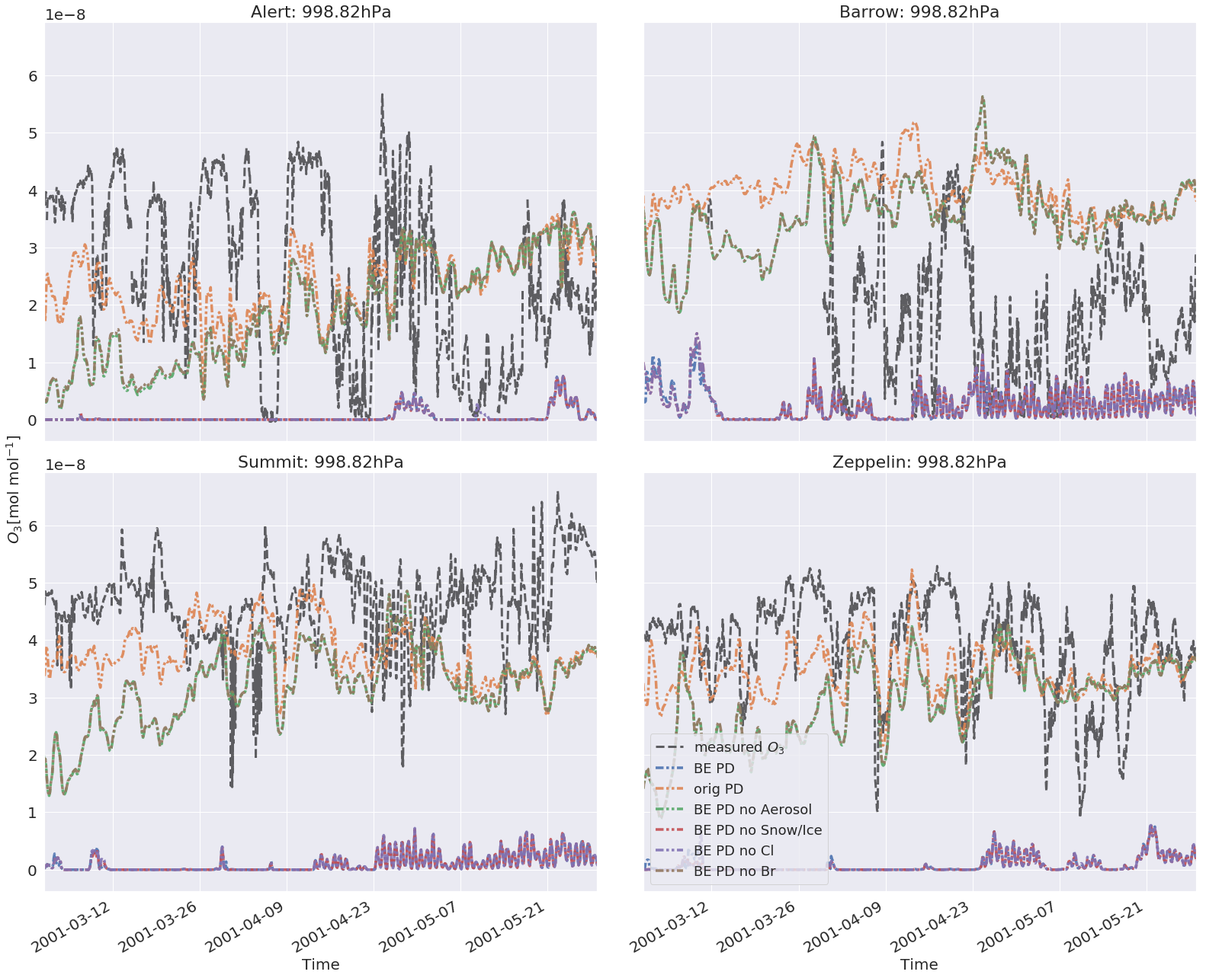
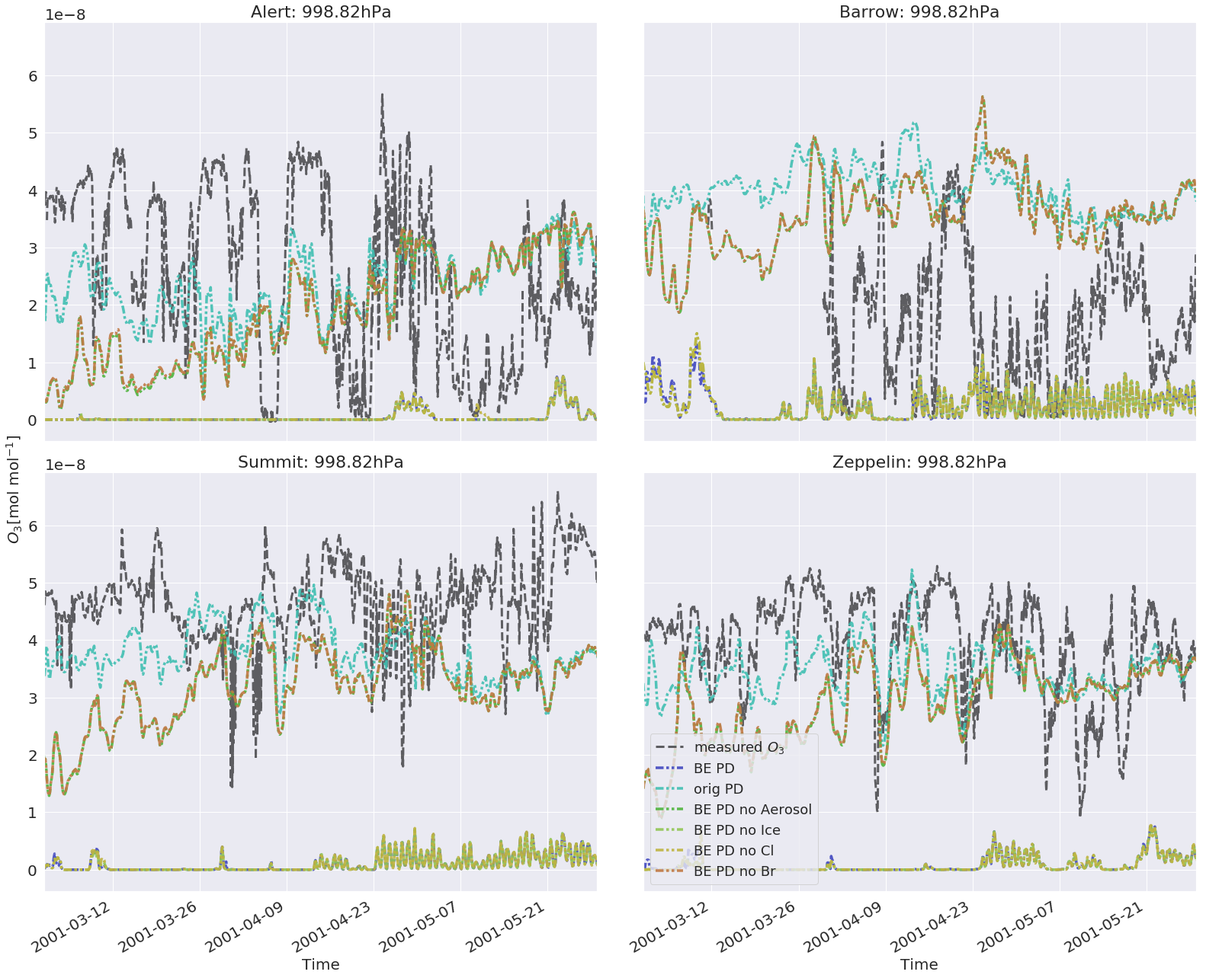
15/04/20

diff --git a/Chapter2_Theory/Theory.tex b/Chapter2_Theory/Theory.tex
@@ -82,11 +82,31 @@ Reaction \ref{rqn:ozone} is the most significant source of ozone in the atmosphe
     \label{rqn:OH}
 \end{reaction}
 
-This is the only gas-phase reaction in the troposphere that is able to break the \chem{H-O} bond in $\chem{H_2O}$ (\cite{SeinfeldSpyros}). Tropospheric ozone is thus increasing the oxidizing capacity of the troposphere as it is acting as a precursor for \chem{OH}. The hydroxyl radicals interplay in a chain of reaction that results in the removal of atmospheric \chem{CO} and $\chem{CH_4}$ (\cite{Levy1971}). 
+This is the only gas-phase reaction in the troposphere that is able to break the \chem{H-O} bond in $\chem{H_2O}$ (\cite{SeinfeldSpyros}). Tropospheric ozone is thus increasing the oxidizing capacity of the troposphere as it is acting as a precursor for \chem{OH}. In remote regions, ozone loss by $\chem{HO_x}$ can be an important mechanism when \chem{NO}-concentrations are low(\cite{Jacob1999}): 
 
-\medskip
 
-When \chem{NO} and $\chem{NO_2}$ is present in sunlight, ozone may be produced photochemically (i.e. the initiating step is the absorption of a photon (\cite{Cadle1970})) in by the photolysis of $\chem{NO_2}$ (Reaction \ref{rqn:no2hv} below) followed by Reaction \ref{rqn:ozone} (\cite{Hesstvedt1978}): 
+\begin{reaction}
+    \chem{OH} + \chem{O_3} \rightarrow \chem{HO_2} + \chem{O_2}
+    \label{rqn:oh_o3}
+\end{reaction}
+\begin{reaction}
+    \chem{HO_2} + \chem{O_3} \rightarrow \chem{OH} + 2\chem{O_3}
+    \label{rqn:ho2_o3}
+\end{reaction}
+
+The hydroxyl radicals interplay in a chain of reaction that results in the removal of atmospheric \chem{CO} and $\chem{CH_4}$ (\cite{Levy1971}). Oxidation of a hydrocarbon, denoted generically as \chem{RH}, by \chem{OH} produces an inorganic peroxy radical, $\chem{RO_2}$ (\cite{Jacob1999}):
+
+\begin{reaction}
+    \chem{RH} + \chem{OH} \xrightarrow{\chem{O_2}} \chem{RO_2} + \chem{H_2O}
+\end{reaction}
+
+When \chem{NO} and $\chem{RO_2}$ are present (in polluted areas), these react to produce $\chem{NO_2}$ and organic oxy radicals \chem{RO} (\cite{Jacob1999}): 
+
+\begin{equation}
+    \chem{RO_2} + \chem{NO} \rightarrow \chem{RO} + \chem{NO_2}
+\end{equation}
+
+Ozone may then be produced photochemically (i.e. the initiating step is the absorption of a photon (\cite{Cadle1970})) by the photolysis of $\chem{NO_2}$ (Reaction \ref{rqn:no2hv} below) followed by Reaction \ref{rqn:ozone} (\cite{Hesstvedt1978}): 
 
 
 \begin{reaction}
@@ -94,34 +114,21 @@ When \chem{NO} and $\chem{NO_2}$ is present in sunlight, ozone may be produced p
     \label{rqn:no2hv}
 \end{reaction}
 
-The \chem{NO}-molecule quickly reacts with ozone to regenerate $\chem{NO_2}$:
-
-
-\begin{reaction}
-    \chem{O_3} + \chem{NO} \rightarrow \chem{O_2} + \chem{NO_2}
-    \label{rqn:o3no}
-\end{reaction}
-
-Tropospheric ozone production is sustained by emissions of $\chem{NO_x}$ and hydrocarbons \cite{Jacob1999}. 
-
-
-
-\subsection{Influence of Nitrogen}\label{sec:influence_of_nitrogen}
-
-
-Generally, tropospheric ozone is a result of two main precursors, $\chem{NO_x} = \chem{NO} + \chem{NO_2}$
-
-In polluted regions, there is an important balance between regions with too much $\chem{NO_x}$, which generally acts as a precursor of ozone, and areas where the $\chem{NO_x}$ concentration is low enough to sustain the production of ozone depleting reactive halogens. The high concentrations of $\chem{HNO_3}$ and $\chem{H_2SO_4}$ can in theory provide the reactive surfaces for acidity dependent autocatalytic release of reactive halogens, but the efficiency of this mechanism is degraded in the case of $\chem{NO_x}$ and hydrocarbon concentrations (\cite{Simpson2015}). High concentrations of $\chem{NO_x}$ suppresses the formation of $\chem{HO_x}$, which is in turn a key component of the halogen explosion sequence. Hydrocarbons serve as sinks for reactive halogens due to their willingness to react with these rather than with ozone, and thus terminates the halogen explosion sequence (\cite{Simpson2015}). Incidents in which halogens do get activated in polluted regions, production of nitryl halides, $\chem{XNO_2}$, is considered to be a major activation process. Observations have shown that this is mostly relevant for chlorine as the reactivity and/or solubility of $\chem{BrNO_2}$ and $\chem{INO_2}$ are likely much greater than for $\chem{ClNO_2}$ \cite{Simpson2015}. 
-
-\medskip
+Tropospheric ozone production is thus sustained by emissions of $\chem{NO_x}$ and hydrocarbons \cite{Jacob1999}. 
 
 
 
 
 
-\cite{SeinfeldSpyros} SKRIV OM HIGH NOX/LOW NOX ENVIRONMENTS
+%\subsection{Influence of Nitrogen}\label{sec:influence_of_nitrogen}
 
-In the troposphere, ozone is a secondary pollutant produced in areas with high anthropogenic emissions of $\chem{NO_x}$. 
+
+%\input{Chapter2_Theory/images/highNOxlowNOx}
+
+%In polluted regions, there is an important balance between regions with too much $\chem{NO_x}$, which generally acts as a precursor of ozone, and areas where the $\chem{NO_x}$ concentration is low enough to sustain the production of ozone depleting reactive halogens. The high concentrations of $\chem{HNO_3}$ and $\chem{H_2SO_4}$ can in theory provide the reactive surfaces for acidity dependent autocatalytic release of reactive halogens, but the efficiency of this mechanism is degraded in the case of $\chem{NO_x}$ and hydrocarbon concentrations (\cite{Simpson2015}). High concentrations of $\chem{NO_x}$ suppresses the formation of $\chem{HO_x}$, which is in turn a key component of the halogen explosion sequence. Hydrocarbons serve as sinks for reactive halogens due to their willingness to react with these rather than with ozone, and thus terminates the halogen explosion sequence (\cite{Simpson2015}). Incidents in which halogens do get activated in polluted regions, production of nitryl halides, $\chem{XNO_2}$, is considered to be a major activation process. Observations have shown that this is mostly relevant for chlorine as the reactivity and/or solubility of $\chem{BrNO_2}$ and $\chem{INO_2}$ are likely much greater than for $\chem{ClNO_2}$ \cite{Simpson2015}. 
+
+
+
 
 \section{Halogen Chemistry}\label{sec:halogen_chemistry}
 
@@ -178,7 +185,7 @@ The discovery of ODEs in the troposphere due to anomalously high concentrations 
 
 \medskip
 
-During polar spring, the amount of ozone in the polar boundary layer may decrease from tens of ppb to less than 1 ppb due to catalytic destruction by reactive halogen species (\cite{CAO}). the reaction scheme assuming bromine is the depleting agent is to a large extent summarized in Figure \ref{fig:het_react}. 
+During polar spring, the amount of ozone in the polar boundary layer may decrease from tens of ppb to less than 1 ppb due to catalytic destruction by reactive halogen species (\cite{CAO}). The reaction scheme assuming bromine is the depleting agent is to a large extent summarized in Figure \ref{fig:het_react}. 
 
 \medskip
 
@@ -212,7 +219,7 @@ The halogen oxides may proceed to deplete ozone. They partition quickly between 
     \chem{XO} + \chem{XO} \rightarrow \chem{OXO} + \chem{X} \label{R:5} 
 \end{reaction}
 
-The \chem{XO}-self reaction in Reactions \ref{R:3} to \ref{R:5} are often considered the rate limiting step for $\chem{O_3}$ destruction (\cite{JPL}). The partitioning between \chem{XO} and \chem{X} is rapid (\cite{Schmidt} reported a $[\chem{XO}]/[\chem{X}]$ ratio globally close to 1). In addition to the partitioning in Reactions \ref{R:3} to \ref{R:5}, \chem{XO} may be oxidized or photolysed:  
+The \chem{XO}-self reaction in Reactions \ref{R:3}-\ref{R:5} are often considered the rate limiting step for $\chem{O_3}$ destruction (\cite{Hausmann1994}). The partitioning between \chem{XO} and \chem{X} is rapid, although in the polar regions, the $[\chem{XO}]/[\chem{X}]$ is generally larger than one (\cite{Schmidt}). In addition to the partitioning in Reactions \ref{R:3}-\ref{R:5}, \chem{XO} may be oxidized or photolysed:  
 
 \begin{reaction}
     \chem{OH} + \chem{XO} \rightarrow \chem{X} + \chem{HO_2}
@@ -226,9 +233,10 @@ The \chem{XO}-self reaction in Reactions \ref{R:3} to \ref{R:5} are often consid
 
 The halogen oxides quickly photodissociate (on the order of seconds and minutes time scale) and Reactions \ref{R:2} and \ref{R:20} creates a null cycle that does not destroy or produce ozone. This has an effect on the partitioning of \chem{X} and \chem{XO} species. The oxides dominate the radical form, which extends the lifetime of the $\chem{XO_x} = \chem{X} + \chem{XO}$-family as the oxides are generally less reactive than the atomic form (\cite{Simpson2015}). 
 
+
 \medskip
 
-Termination reactions that renders the \chem{XO}-radical into the reservoir species \chem{HBr}, \chem{HOBr} and $\chem{BrONO_2}$ may proceed as follows: 
+Termination reactions that renders the \chem{XO} and \chem{X}-radicals into the reservoir species \chem{HBr} and \chem{HOBr} may proceed as follows: 
 
 \begin{reaction}
     \chem{XO} + \chem{HO_2} \rightarrow \chem{HOX} + \chem{O_2}
@@ -246,25 +254,9 @@ Termination reactions that renders the \chem{XO}-radical into the reservoir spec
     \label{R:16}
 \end{reaction}
 
-\begin{reaction}
-    \chem{BrO} + \chem{NO_2} + M \rightarrow \chem{BrONO_2} + M
-    \label{R:9}
-\end{reaction}
-
-Depending on their relative bond strength, the reservoir species may be reactivated by: 
 
 
-\begin{reaction}
-    \chem{BrO} + \chem{NO} \rightarrow \chem{NO_2} + \chem{Br}
-    \label{R:14}
-\end{reaction}
-
-
-
-\begin{reaction}
-    \chem{BrONO_2} + \chem{H_2O} \xrightarrow{aerosol} \chem{HOBr} + \chem{HNO_3}
-    \label{R:13}
-\end{reaction}
+The efficiency of ozone destruction is not only dependent on the availability of reactive bromine, but also the efficiency of reconverting reservoir species (\chem{HBr} and \chem{HOBr}) back into reactive \chem{Br}). \chem{HOBr} photolyses readily to form \chem{Br} and \chem{OH} (\cite{Hausmann1994}):
 
 \begin{reaction}
     \chem{HOBr} + hv \rightarrow \chem{Br} + \chem{OH}
@@ -295,6 +287,10 @@ In which the multiphase Reactions \ref{R:7} and \ref{R:8} outlines the release o
 
 \medskip
 
+The ODEs terminate when there's no ozone left to deplete, as that prohibits Reaction \ref{rqn:oh_o3}-\ref{rqn:ho2_o3} such that there will be far less $\chem{HO_x}$-species. This affects Reaction \ref{R:6}, $\chem{BrO} + \chem{HO_2} \rightarrow \chem{HOBr} + \chem{O_2}$, which again terminates the autocatalytic heterogeneous reactions that produces reactive halogen species. 
+
+\subsubsection{Reactive Surfaces}
+
 The reactive surface maybe supplied by different media, and this is an object of many research articles (e.g.  \cite{Simpson2018}, \cite{Rankin}). Whichever is more significant, there is most likely a cooperation of the reactive surfaces that accelerates the bromine explosion events. The reactive surfaces are (generally): 
 
 \begin{itemize}
@@ -302,6 +298,30 @@ The reactive surface maybe supplied by different media, and this is an object of
     \item Snow surfaces, with low pH
     \item Aerosol surfaces, with low pH
 \end{itemize}
+
+\subsubsection{ODEs and Halogen-Driven $\chem{NO_x}$-Loss}
+
+Halogen driven tropospheric ozone loss globally was found by \cite{Schmidt} to be due to a combination of depletion by catalytic BE-events and a decrease in $\chem{NO_x}$-driven ozone production. This is due to halogen-driven $\chem{NO_x}$-loss which is largest in low $\chem{NO_x}$-areas, such as the polar regions. The halogen-driven $\chem{NO_x}$-loss occurs due to hydrolysis of the halogen nitrates (\cite{Schmidt}):
+
+\begin{reaction}
+    \chem{BrO} + \chem{NO} \rightarrow \chem{NO_2} + \chem{Br}
+    \label{R:14}
+\end{reaction}
+
+
+\begin{reaction}
+    \chem{BrO} + \chem{NO_2} + M \rightarrow \chem{BrONO_2} + M
+    \label{R:9}
+\end{reaction}
+
+
+\begin{reaction}
+    \chem{BrONO_2} + \chem{H_2O} \xrightarrow{aerosol} \chem{HOBr} + \chem{HNO_3}
+    \label{R:13}
+\end{reaction}
+
+
+
 
 \subsubsection{Chlorine Reservoir Species}
 

diff --git a/Chapter1_Intro/Introduction.tex b/Chapter1_Intro/Introduction.tex
@@ -3,7 +3,7 @@ Anthropogenic emissions of nitrogen oxides ($\chem{NO_x}$), carbon monoxide (\ch
 
 \medskip
 
-Ozone is a powerful greenhouse gas in terms of \acrfull{rf}, both in the stratosphere and troposphere. The estimated \acrshort{rf} due to tropospheric ozone was reported by The \acrfull{ipcc} as 0.40$\pm$0.20Wm$^{-2}$ (\cite{IPCCchapter8}). Ozone is, however, distinguished from other greenhouse gases due to it's short lifetime and highly heterogeneous distribution. The short lifetime of ozone classifies it as a 'near-term climate forcer', i.e. a species whos impact on climate occurs within the first decade after it's emission (\cite{IPCCchapter8}). In the free troposphere, ozone may have a lifetime of weeks to months. Consequently, ozone and its precursors may be transported from polluted mid-latitude areas to the Arctic directly (\cite{AMAP2015}). In order to better understand the ozone-induced \acrshort{rf} in the Earth-atmosphere system, better modelling of the tropospheric ozone content and processes is needed (e.g. \cite{Bowman2013}, \cite{Parella}). 
+Ozone is a powerful greenhouse gas in terms of \acrfull{rf}, both in the stratosphere and troposphere. In 2013, The \acrfull{ipcc} estimated the \acrshort{rf} due to tropospheric ozone to be 0.40$\pm$0.20Wm$^{-2}$ (\cite{IPCCchapter8}). Ozone is, however, distinguished from other greenhouse gases due to it's short lifetime and highly heterogeneous distribution. The short lifetime of ozone classifies it as a 'near-term climate forcer', i.e. a species whos impact on climate occurs within the first decade after it's emission (\cite{IPCCchapter8}). In the free troposphere, ozone may have a lifetime of weeks to months. Consequently, ozone and its precursors may be transported from polluted mid-latitude areas to the Arctic directly (\cite{AMAP2015}). In order to better understand the ozone-induced \acrshort{rf} in the Earth-atmosphere system, better modelling of the tropospheric ozone content and processes is needed (e.g. \cite{Bowman2013}, \cite{Parella}). 
 
 \medskip
 
@@ -27,11 +27,12 @@ In particular, bromine and chlorine interplay in so called halogen explosions th
 
 \medskip
 
-The motivation of this thesis is to assess what impact the depletion of ozone in a shallow \acrshort{bl} at high latitudes has on the radiative balance in the Arctic. Changes in local troposhperic ozone affects local radiation fluxes in the Arctic, while changes in both local and distant ozone pollution may modulate the transport of heat to polar regions (\cite{Shindell2007}). The hypothesis is that there are similarities between the effect of \acrfull{bc} residing in the shallow Arctic \acrshort{bl} causes as strong surface warming due to an enhancement of the absorption of radiation (\cite{Flanner2013}) and photolysis and destruction of ozone near the surface. The radiative effect of BC is highly dependent on altitude, and BE situated at the lowermost part of the Arctic \acrshort{bl}, has a warming effect, which may accelerate snow/ice melting (\cite{Flanner2013}, \cite{AMAP2015}). By obtaining an implementation of \acrshort{ode} in the Oslo CTM3, and investigate the \acrshort{rf} imposed by a changed concentration of ozone in the Arctic \acrshort{bl}, we can get an idea of how similar the BC and ozone effects are. 
+The motivation of this thesis is to assess what impact the depletion of ozone in a shallow \acrshort{bl} at high latitudes has on the radiative balance in the Arctic. Changes in local troposhperic ozone affects local radiation fluxes in the Arctic, while changes in both local and distant ozone pollution may modulate the transport of heat to polar regions (\cite{Shindell2007}). Comparably, \acrfull{bc} residing in the shallow Arctic \acrshort{bl} causes strong surface warming due to enhancement of the absorption of radiation (\cite{Flanner2013}). The hypothesis is that there are similarities between this effect and the photolysis and destruction of ozone near the surface. The radiative effect of BC is highly dependent on altitude, and BE situated at the lowermost part of the Arctic \acrshort{bl}, has a warming effect, which may accelerate snow/ice melting (\cite{Flanner2013}, \cite{AMAP2015}). 
 
 \medskip
 
-Chemical transport models (\acrshort{ctm}s) and chemistry-climate models (\acrshort{ccm}s) are models that attempts to synthesize and explain the atmospheric chemistry system as a whole. Considering the complexity of the system, there is a question of whether the results can be fully trusted or not. In the case of modelled tropospheric ozone in the Northern- and Southern hemisphere (\acrshort{nh} and \acrshort{sh}) of the chemistry-climate models participating tin the \acrfull{accmip} (\cite{Bowman2013}), the ensemble mean produces a modestly low bias for the SH and a modestly high bias in the NH compared to \acrfull{tes} measurements. These ozone biases have considerable impact on the \acrfull{olr} (\cite{Bowman2013}). Another aspect of this overestimation in the NH is that there might have been an ongoing modelling overestimation of the pre-industrial ozone concentrations, as observations from that time period are virtually non-existent (\cite{shindell2003}, \cite{Parrish2014}). As ozone is a short lived secondary gas, we do not know exactly the pre-industrial atmospheric concentration. Correctly implemented chemistry is therefore of utmost importance.
+Through the course of this thesis, I will attempt to implement the halogen chemistry required to obtain \acrshort{ode} in the Oslo Chemical Transport Model 3 (\acrshort{ctm}3). CTMs and chemistry-climate models (\acrshort{ccm}s) are models that attempt to synthesize and explain the atmospheric chemistry system as a whole. Considering the complexity of the system, there is a question of whether the results can be fully trusted or not. In the case of modelled tropospheric ozone in the Northern- and Southern hemisphere (\acrshort{nh} and \acrshort{sh}) of the chemistry-climate models participating tin the \acrfull{accmip} (\cite{Bowman2013}), the ensemble mean produces a modestly low bias for the SH and a modestly high bias in the NH compared to \acrfull{tes} measurements. These ozone biases have considerable impact on the \acrfull{olr} (\cite{Bowman2013}). Another aspect of this overestimation in the NH is that there might have been an ongoing modelling overestimation of the pre-industrial ozone concentrations, as observations from that time period are virtually non-existent (\cite{shindell2003}, \cite{Parrish2014}). As ozone is a short lived secondary gas, we do not know exactly the pre-industrial atmospheric concentration. Correctly implemented chemistry is therefore of utmost importance. By obtaining an implementation of \acrshort{ode} in the Oslo CTM3, and investigate the \acrshort{rf} imposed by a changed concentration of ozone in the Arctic \acrshort{bl}, we can get an idea of how similar the BC and ozone effects are. 
+
 
 \medskip
 

diff --git a/Chapter6_Results/Results.tex b/Chapter6_Results/Results.tex
@@ -29,7 +29,7 @@ Figure \ref{fig:test_RemoveHetReacts} shows results in terms of $\chem{O_3}$-con
 \end{mydef}
 
 \begin{mydef}\label{def:BE_PD_noIce}
-    \texttt{marikoll\_bromine\_explosion\_noSnowIce}: Branch \ref{def:BE_PD} without heterogeneous snow/ice reactions.
+    \texttt{marikoll\_bromine\_explosion\_noSnowIce}: Branch \ref{def:BE_PD} without heterogeneous reactions over ice surfaces (called \texttt{noSnowIce} by mistake).
 \end{mydef}
 
 \begin{mydef}\label{def:BE_PD_noCl}
@@ -66,7 +66,7 @@ In the vertical, the corresponding $\chem{Br_y}$ concentrations to Figure \ref{f
 
 \subsection{Integrating $\chem{Cl_y}$}
 
-Figure \ref{fig:test_ClyInt} contains the result in terms of $\chem{O_3}$ concentration where an integration of the $\chem{Cl_y}$-family was added. This integration was not handled prior to the previous model runs (the chemical families are listed in Section \ref{sec:halogen_families_BryClxCly}). 
+Figure \ref{fig:test_ClyInt} contains the result in terms of $\chem{O_3}$ concentration where an integration of the $\chem{Cl_y}$-family was added to the initial BE-branch (Branch \ref{def:BE_PD}) This integration was not handled prior to the previous model runs (the chemical families are listed in Section \ref{sec:halogen_families_BryClxCly}). 
 
 \medskip
 
@@ -81,6 +81,18 @@ The boundary layer height, $L_{mix}$ and deposition velocity, $v_d$ in the preli
 \medskip
 
 The first test was executed with $L_{mix} = 25 m$ and $v_d = 0.00824 m/s$. This boundary layer height was chosen due to the height of the second model layer height $995.86 hPa$, with is about $23 m$ higher than the first model layer height at $998.82 hPa$. The low level was chosen to make sure the bromine explosion would indeed occur. This test caused too much bromine explosion for the model to complete the run. $L_{mix}$ was then lowered to $L_{mix} = 100 m$ with $v_d = 0.00667 m/s$. 
+
+\subsection{Lmix = 200}
+
+\subsection{Lmix = 100}
+
+\subsection{Lmix = 100 After Fix}
+
+The weighing of Reaction \ref{R:7} was removed (in \texttt{pchemc\_ij.f90}). It was initially weighted with $0.5$ assuming half of the \chem{HOBr} was reacting with \chem{Br} and half with \chem{Cl}, but was removed as the heterogeneous reactions involving \chem{Cl} were removed. Also, $\chem{Br_2}$ was added to the debugging-scaling in \texttt{pchemc\_ij.f90}
+
+\subsection{Lmix = 100, \chem{HBr} Adjusted to 30 ppt}
+
+In order to boost the concentration of \chem{HBr}, the concentration was set to 30 ppt ($= 8.059 \text{molecules}cm^{-3}$ at $273.15 K$) in the first sub-timestep of \texttt{pchemc\_ij.f90}.  
 
 
 \section{Comparison between the PD- and PI-branches}

diff --git a/Chapter8_Discussion/discussion.tex b/Chapter8_Discussion/discussion.tex
@@ -13,7 +13,10 @@ In Figure \ref{fig:CompObsOrigBE} (in Section \ref{sec:results_code_development}
 
 \subsection{Test: Removing Heterogeneous Reactions}
 
-Branch \ref{def:BE_PD_noAerosol}-\ref{def:BE_PD_noBr} were created as an attempt to see which process may have caused the problems in the initial BE-branch (Branch \ref{def:BE_PD}). The resulting modelled ozone along with ozone measurements are shown in Figure \ref{fig:test_RemoveHetReacts}. 
+Branch \ref{def:BE_PD_noAerosol}-\ref{def:BE_PD_noBr} were created as an attempt to see which process may have caused the problems in the initial BE-branch (Branch \ref{def:BE_PD}). The resulting modelled ozone along with ozone measurements are shown in Figure \ref{fig:test_RemoveHetReacts}. This had to be seen in the context of the modelled bromine content as there generally was not enough bromine to create such low values of ozone. The modelled $\chem{Br_y}$ for the four new branches is shown in Figures \ref{fig:vert_noAer_bry_2001}-\ref{fig:vert_noCl_bry_2001}. 
+
+
+no chlorine branch chosen because it was less invasive to adjust this, even though the branches without aerosol reactions and het. bromine reactions were much closer to the original in terms of ozone. 
 
 
 \section{Future work}

diff --git a/Chapter4_CTM3/CTM3.tex b/Chapter4_CTM3/CTM3.tex
@@ -94,7 +94,14 @@ The advantage of using families is that is a fast method, and reasonably accurat
 
 \subsection{O3-NO variable}\label{sec:O3-NO}
 
-The strong coupling between the Reactions \ref{rqn:ozone}, \ref{rqn:o3no} and \ref{rqn:no2hv} cause numerical instability problems when choosing time steps that are too long (\cite{Hesstvedt1978}). To avoid these instabilities, a new variable is defined: 
+The strong coupling between the Reactions \ref{rqn:ozone}, \ref{rqn:no2hv} and:
+
+\begin{reaction}
+    \chem{O_3} + \chem{NO} \rightarrow \chem{NO_2} + \chem{O_2}
+    \label{rqn:o3no}
+\end{reaction}
+
+cause numerical instability problems when choosing time steps that are too long (\cite{Hesstvedt1978}). To avoid these instabilities, a new variable is defined: 
 
 \begin{equation}
     x = [\chem{O_3}] - [\chem{NO}]

diff --git a/Chapter6_Results/images/vertical_noSnowIce_2001_bry.tex b/Chapter6_Results/images/vertical_noSnowIce_2001_bry.tex
@@ -1,6 +1,6 @@
 \begin{figure}
     \centering
     \includegraphics[width = \linewidth]{Chapter6_Results/images/noSnowIce_2001_bry.png}
-    \caption{Modelled $\chem{Br_y}$ without theheterogeneous reactions over ice surfaces. The y-axis shows altitude up to 600 hPa at each station with ozone measurements (Alert, Barrow, Zeppelin and Summit) in 2001.}
+    \caption{Modelled $\chem{Br_y}$ without theheterogeneous reactions over ice surfaces. The y-axis shows altitude up to 600 hPa at each station with ozone measurements at 12:00 (UTC) (Alert, Barrow, Zeppelin and Summit) in 2001.}
     \label{fig:vert_noSnowIce_bry_2001}
 \end{figure}

diff --git a/Chapter6_Results/images/vertical_noSnowIce_2001_o3.tex b/Chapter6_Results/images/vertical_noSnowIce_2001_o3.tex
@@ -1,6 +1,6 @@
 \begin{figure}
     \centering
     \includegraphics[width = \linewidth]{Chapter6_Results/images/noSnowIce_2001_o3.png}
-    \caption{Modelled $\chem{O_3}$ without the heterogeneous reactions over ice surfaces. The y-axis shows altitude up to 600 hPa at each station with ozone measurements (Alert, Barrow, Zeppelin and Summit) in 2001.}
+    \caption{Modelled $\chem{O_3}$ without the heterogeneous reactions over ice surfaces. The y-axis shows altitude up to 600 hPa at each station with ozone measurements at 12:00 (UTC) (Alert, Barrow, Zeppelin and Summit) in 2001.}
     \label{fig:vert_noSnowIce_o3_2001}
 \end{figure}

diff --git a/Chapter6_Results/images/vertical_noCl_2001_bry.tex b/Chapter6_Results/images/vertical_noCl_2001_bry.tex
@@ -1,6 +1,6 @@
 \begin{figure}
     \centering
     \includegraphics[width = \linewidth]{Chapter6_Results/images/noCl_2001_bry.png}
-    \caption{Modelled $\chem{Br_y}$ without the heterogeneous reactions involving chlorine. The y-axis shows altitude up to 600 hPa at each station with ozone measurements (Alert, Barrow, Zeppelin and Summit) in 2001.}
+    \caption{Modelled $\chem{Br_y}$ without the heterogeneous reactions involving chlorine. The y-axis shows altitude up to 600 hPa at each station with ozone measurements at 12:00 (UTC) (Alert, Barrow, Zeppelin and Summit) in 2001.}
     \label{fig:vert_noCl_bry_2001}
 \end{figure}

diff --git a/Chapter6_Results/images/vertical_noBr_2001_bry.tex b/Chapter6_Results/images/vertical_noBr_2001_bry.tex
@@ -1,6 +1,6 @@
 \begin{figure}
     \centering
     \includegraphics[width = \linewidth]{Chapter6_Results/images/noBr_2001_bry.png}
-    \caption{Modelled $\chem{Br_y}$ without the heterogeneous reactions involving bromine. The y-axis shows altitude up to 600 hPa at each station with ozone measurements (Alert, Barrow, Zeppelin and Summit) in 2001.}
+    \caption{Modelled $\chem{Br_y}$ without the heterogeneous reactions involving bromine. The y-axis shows altitude up to 600 hPa at each station with ozone measurements at 12:00 (UTC) (Alert, Barrow, Zeppelin and Summit) in 2001.}
     \label{fig:vert_noBr_bry_2001}
 \end{figure}

diff --git a/Chapter6_Results/images/vertical_noCl_2001_o3.tex b/Chapter6_Results/images/vertical_noCl_2001_o3.tex
@@ -1,6 +1,6 @@
 \begin{figure}
     \centering
     \includegraphics[width = \linewidth]{Chapter6_Results/images/noCl_2001_o3.png}
-    \caption{Modelled $\chem{O_3}$ without the heterogeneous reactions involving chlorine. The y-axis shows altitude up to 600 hPa at each station with ozone measurements (Alert, Barrow, Zeppelin and Summit) in 2001.}
+    \caption{Modelled $\chem{O_3}$ without the heterogeneous reactions involving chlorine. The y-axis shows altitude up to 600 hPa at each station with ozone measurements at 12:00 (UTC) (Alert, Barrow, Zeppelin and Summit) in 2001.}
     \label{fig:vert_noCl_o3_2001}
 \end{figure}

diff --git a/Chapter6_Results/images/vertical_noBr_2001_o3.tex b/Chapter6_Results/images/vertical_noBr_2001_o3.tex
@@ -1,6 +1,6 @@
 \begin{figure}
     \centering
     \includegraphics[width = \linewidth]{Chapter6_Results/images/noBr_2001_o3.png}
-    \caption{Modelled $\chem{O_3}$ without the heterogeneous reactions involving bromine. The y-axis shows altitude up to 600 hPa at each station with ozone measurements (Alert, Barrow, Zeppelin and Summit) in 2001.}
+    \caption{Modelled $\chem{O_3}$ without the heterogeneous reactions involving bromine. The y-axis shows altitude up to 600 hPa at each station with ozone measurements at 12:00 (UTC) (Alert, Barrow, Zeppelin and Summit) in 2001.}
     \label{fig:vert_noBr_o3_2001}
 \end{figure}

diff --git a/Chapter6_Results/images/vertical_noAerosol_2001_bry.tex b/Chapter6_Results/images/vertical_noAerosol_2001_bry.tex
@@ -1,6 +1,6 @@
 \begin{figure}
     \centering
     \includegraphics[width = \linewidth]{Chapter6_Results/images/noAerosol_2001_bry.png}
-    \caption{Modelled $\chem{Br_y}$ without the heterogeneous aerosol reactions. The y-axis shows altitude up to 600 hPa at each station with ozone measurements (Alert, Barrow, Zeppelin and Summit) in 2001.}
+    \caption{Modelled $\chem{Br_y}$ without the heterogeneous aerosol reactions. The y-axis shows altitude up to 600 hPa at each station with ozone measurements at 12:00 (UTC) (Alert, Barrow, Zeppelin and Summit) in 2001.}
     \label{fig:vert_noAer_bry_2001}
 \end{figure}
